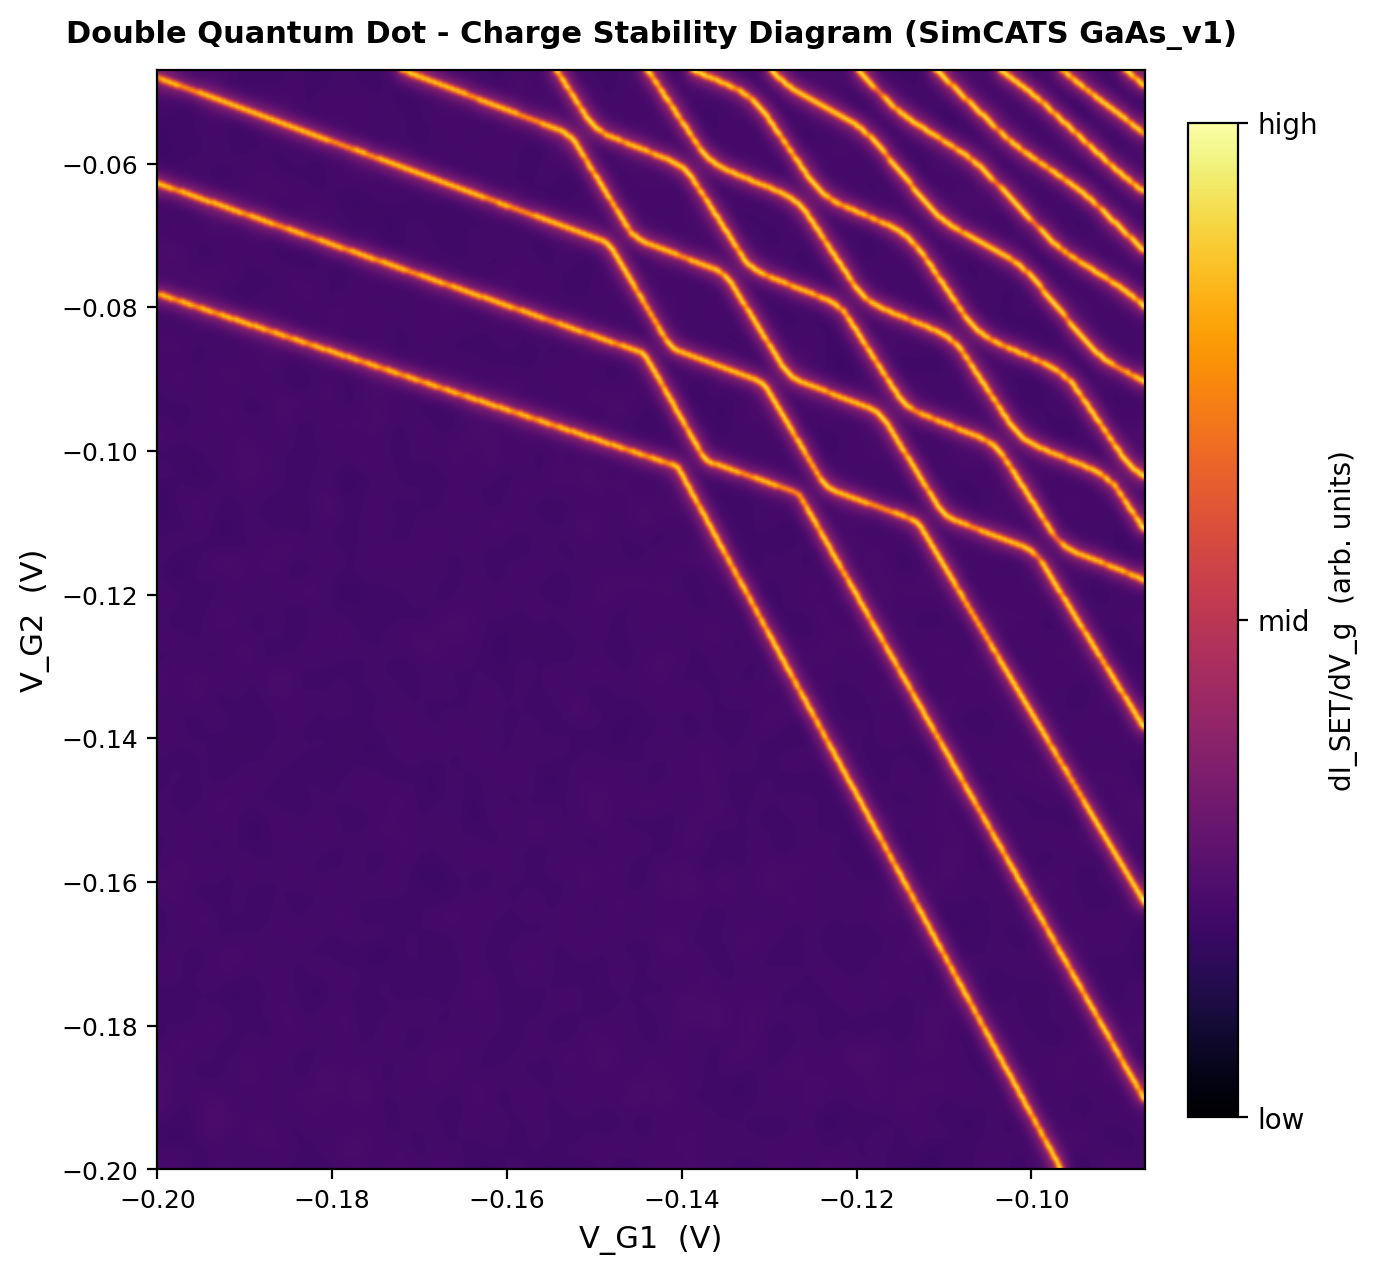
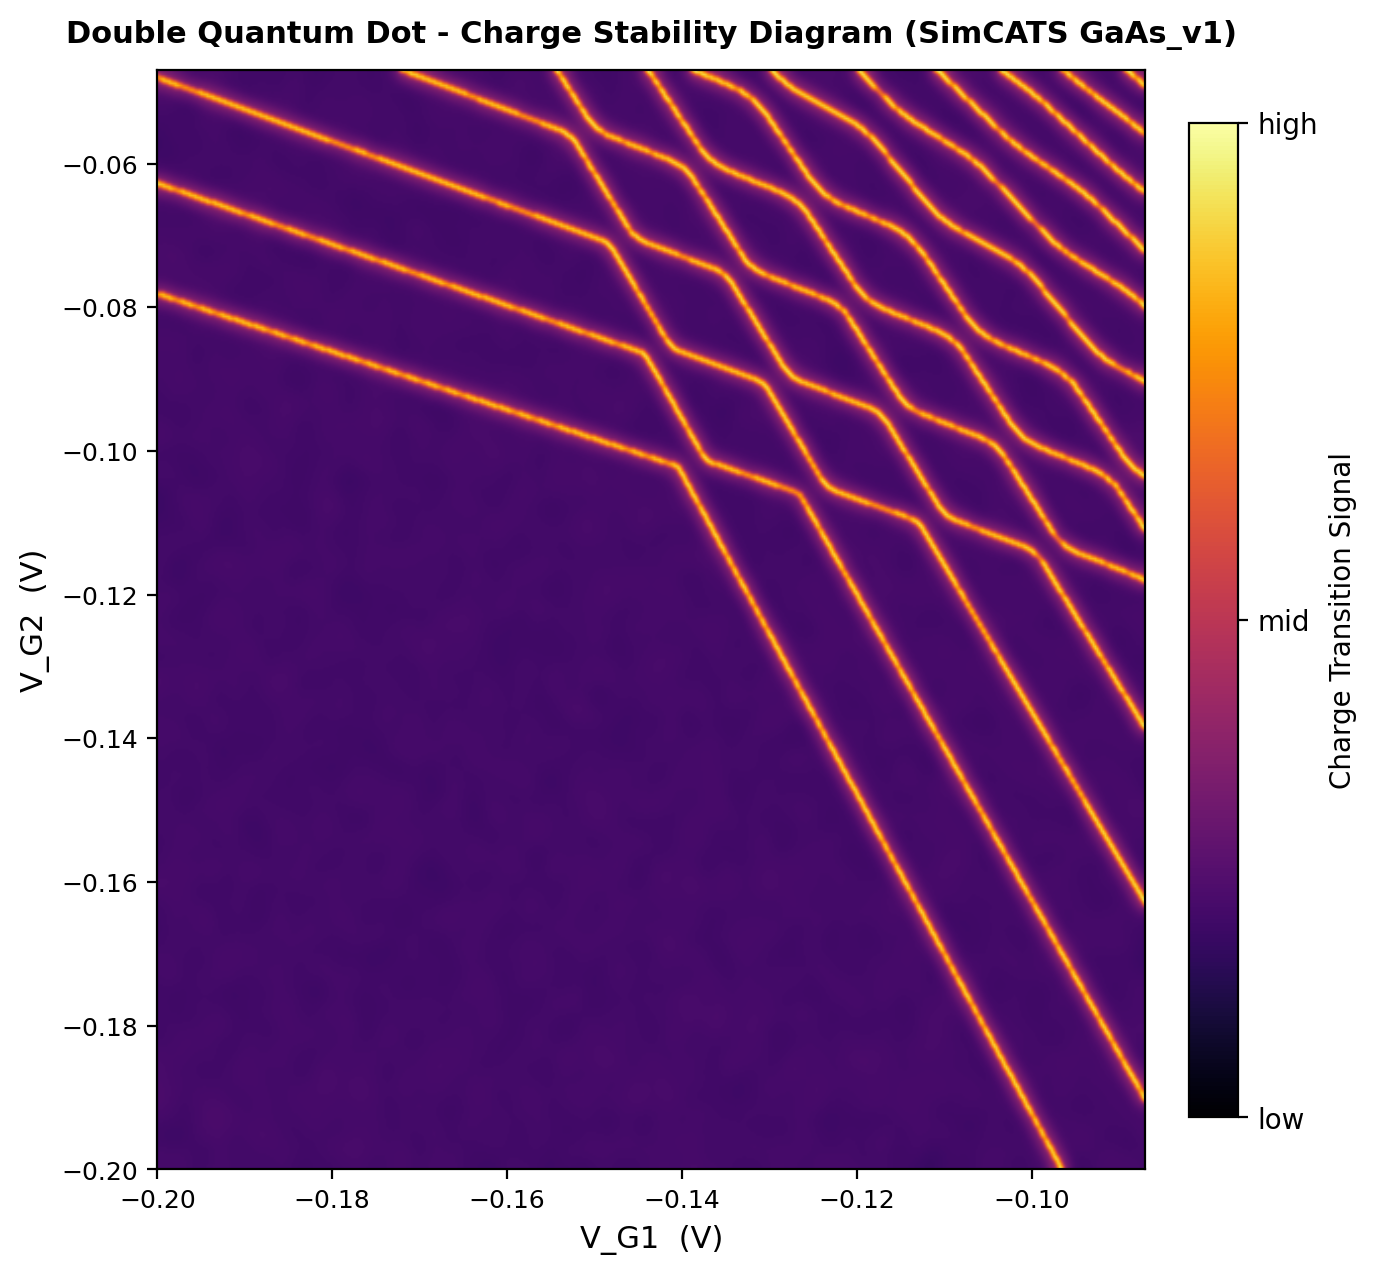
2 csds gen

diff --git a/CSD_gen_QArray.py b/CSD_gen_QArray.py
@@ -57,8 +57,8 @@ signal     = lines_norm + 0.08 + background_drift + charge_noise
 signal     = np.clip(signal, 0, None)
 signal     = signal / signal.max()
 #warp
-WOBBLE_SIGMA     = 8     # px — spatial scale (decreased for faster, more frequent wiggles)
-WOBBLE_AMPLITUDE = 45    # px — shift magnitude (increased for a more dramatic warp)
+WOBBLE_SIGMA     = 15     # px — spatial scale (decreased for faster, more frequent wiggles)
+WOBBLE_AMPLITUDE = 35    # px — shift magnitude (increased for a more dramatic warp)
 
 disp_x = gaussian_filter(
     rng.normal(0, 1, (RESOLUTION, RESOLUTION)), sigma=WOBBLE_SIGMA
@@ -111,17 +111,18 @@ im = ax.imshow(
     cmap="inferno", vmin=0.0, vmax=1.0,
 )
 
-for (s1, s2), (lx, ly) in label_positions.items():
+#the labels 
+"""for (s1, s2), (lx, ly) in label_positions.items():
     ax.text(lx, ly, "({},{})".format(s1, s2),
             color="white", fontsize=7.5, fontweight="bold",
-            ha="center", va="center", alpha=0.85)
+            ha="center", va="center", alpha=0.85)"""
 
 cbar = plt.colorbar(im, ax=ax, fraction=0.046, pad=0.04)
-cbar.set_label("dI_SET/dV_g  (arb. units)", fontsize=10)
+cbar.set_label("Charge Transition Signal", fontsize=10)
 cbar.set_ticks([0.0, 0.5, 1.0])
 cbar.set_ticklabels(["low", "mid", "high"])
 
-ax.set_title("Double Quantum Dot -- Charge Stability Diagram",
+ax.set_title("Double Quantum Dot - QArray Charge Stability Diagram",
              fontweight="bold", fontsize=12, pad=10)
 ax.set_xlabel("V_P1  (mV)", fontsize=11)
 ax.set_ylabel("V_P2  (mV)", fontsize=11)

diff --git a/CSD_gen_simCAT.py b/CSD_gen_simCAT.py
@@ -78,7 +78,7 @@ im = ax.imshow(
 )
 
 cbar = plt.colorbar(im, ax=ax, fraction=0.046, pad=0.04)
-cbar.set_label("dI_SET/dV_g  (arb. units)", fontsize=10)
+cbar.set_label("Charge Transition Signal", fontsize=10)
 cbar.set_ticks([0.0, 0.5, 1.0])
 cbar.set_ticklabels(["low", "mid", "high"])
 
